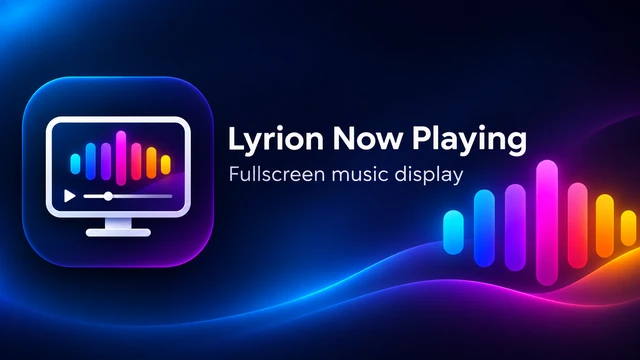
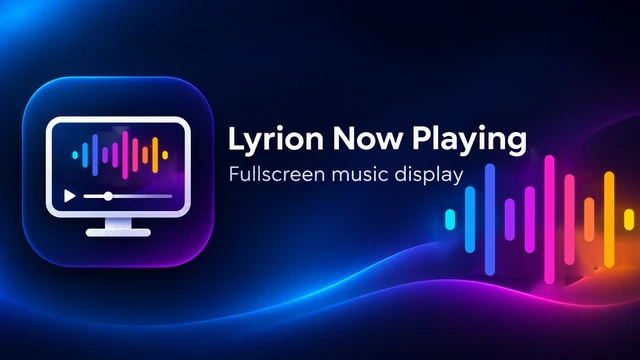
Use upstream Lyrion 10-bar waveform in approved artwork and enable signed prerelease publishing

Changed region(s): [[0.6875, 0.4278, 1.0, 0.825], [0.0938, 0.3361, 0.2812, 0.5194]]

diff --git a/docs/RELEASING.md b/docs/RELEASING.md
@@ -1,6 +1,6 @@
 # Publishing signed Android releases
 
-A release is published **only** when a tag beginning with `v` is pushed (for example `v0.1.0`). The tag must match the version declared as `versionName` in `app/build.gradle`.
+A release is published when a tag beginning with `v` is pushed (for example `v0.1.0`). For GitHub-only publication without a local tag push, a push to `publish/vX.Y.Z` also builds the signed APK and creates the matching tag and GitHub Release. Both routes require the tag to match `versionName` in `app/build.gradle`.
 
 ## 1. Create and safeguard your release keystore
 
@@ -41,8 +41,8 @@ Secrets are made available only to the release job; pull request CI does not use
 1. Confirm Android CI on `main` is green.
 2. Update both `versionCode` (integer, must increase for updates) and `versionName` (e.g. `0.1.0`) in `app/build.gradle`.
 3. Merge any necessary updates to `main`.
-4. Tag the desired commit: `git tag v0.1.0` and `git push origin v0.1.0`.
-5. Watch the **Publish Android release** workflow. It checks the tag/version match, lints/tests, builds and verifies the signed APK, and uploads it as `lms-material-now-playing-vX.Y.Z.apk` together with a matching `.sha256` file to a GitHub Release.
+4. Tag the desired commit: `git tag v0.1.0` and `git push origin v0.1.0`. Alternatively, push a dedicated branch named `publish/v0.1.0` at the chosen source commit to build and publish directly via GitHub Actions; the workflow creates the release tag at that commit.
+5. Watch the **Publish Android release** workflow. It checks the tag/version match, lints/tests, builds and verifies the signed APK, and uploads it as `lms-material-now-playing-vX.Y.Z.apk` together with a matching `.sha256` file to a GitHub **pre-release**. The title is `Lyrion Now Playing vX.Y.Z`.
 
 **Do not tag a release until the four signing secrets have been configured.** If a job fails, inspect the workflow log; the publish step runs only after successful verification.
 

diff --git a/docs/BRANDING.md b/docs/BRANDING.md
@@ -1,12 +1,17 @@
 # Lyrion Now Playing — visual identity
 
-The chosen artwork combines the **Lyrion-inspired equalizer bars** with a
-**Now Playing display** motif (screen, play symbol and progress line).
-This identifies the app as a view-only companion rather than a full playback client.
+The approved artwork combines the **exact ten-bar waveform height pattern and
+bar positions** from [CDrummond's lms-material-app](https://github.com/CDrummond/lms-material-app/blob/master/lms-material/src/main/res/drawable/ic_launcher_foreground.xml)
+with our original **Now Playing display** motif (screen, play symbol and progress
+line). The source vector is retained verbatim in
+[`artwork/upstream-material-icon-foreground.xml`](../artwork/upstream-material-icon-foreground.xml)
+for traceability. The waveform is scaled and recolored to retain our existing
+cyan-to-yellow gradient; its ten-bar silhouette replaces the previous unrelated
+seven-bar approximation. All surrounding icon and banner elements are unchanged.
 
-The production art comes from the two visual concepts selected in the design
-discussion. It is not a copy of the launcher icon from
-[CDrummond/lms-material-app](https://github.com/CDrummond/lms-material-app).
+Upstream waveform/vector © its contributors, MIT-licensed under
+[CDrummond/lms-material-app/LICENSE](https://github.com/CDrummond/lms-material-app/blob/master/LICENSE).
+The app remains an **unofficial companion**, not an official Lyrion release.
 
 ## Source images
 

diff --git a/README.md b/README.md
@@ -100,7 +100,7 @@ The `applicationId` is `com.chrober.lmsmaterial.nowplaying`. The release workflo
 ## App artwork
 
 The **Lyrion Now Playing** launcher icon and Fire TV / Android TV banner use the
-approved waveform-and-display design. The icon's familiar waveform is paired with
+approved waveform-and-display design. Its ten-bar waveform geometry comes from [Craig Drummond's MIT-licensed Material app](https://github.com/CDrummond/lms-material-app/blob/master/lms-material/src/main/res/drawable/ic_launcher_foreground.xml), recolored with our existing gradient and paired with
 a visual Now Playing progress indicator; the app itself remains view-only.
 
 - Android 5.1–7.1 and newer legacy launchers: density-specific `mipmap-*/ic_launcher.webp`
